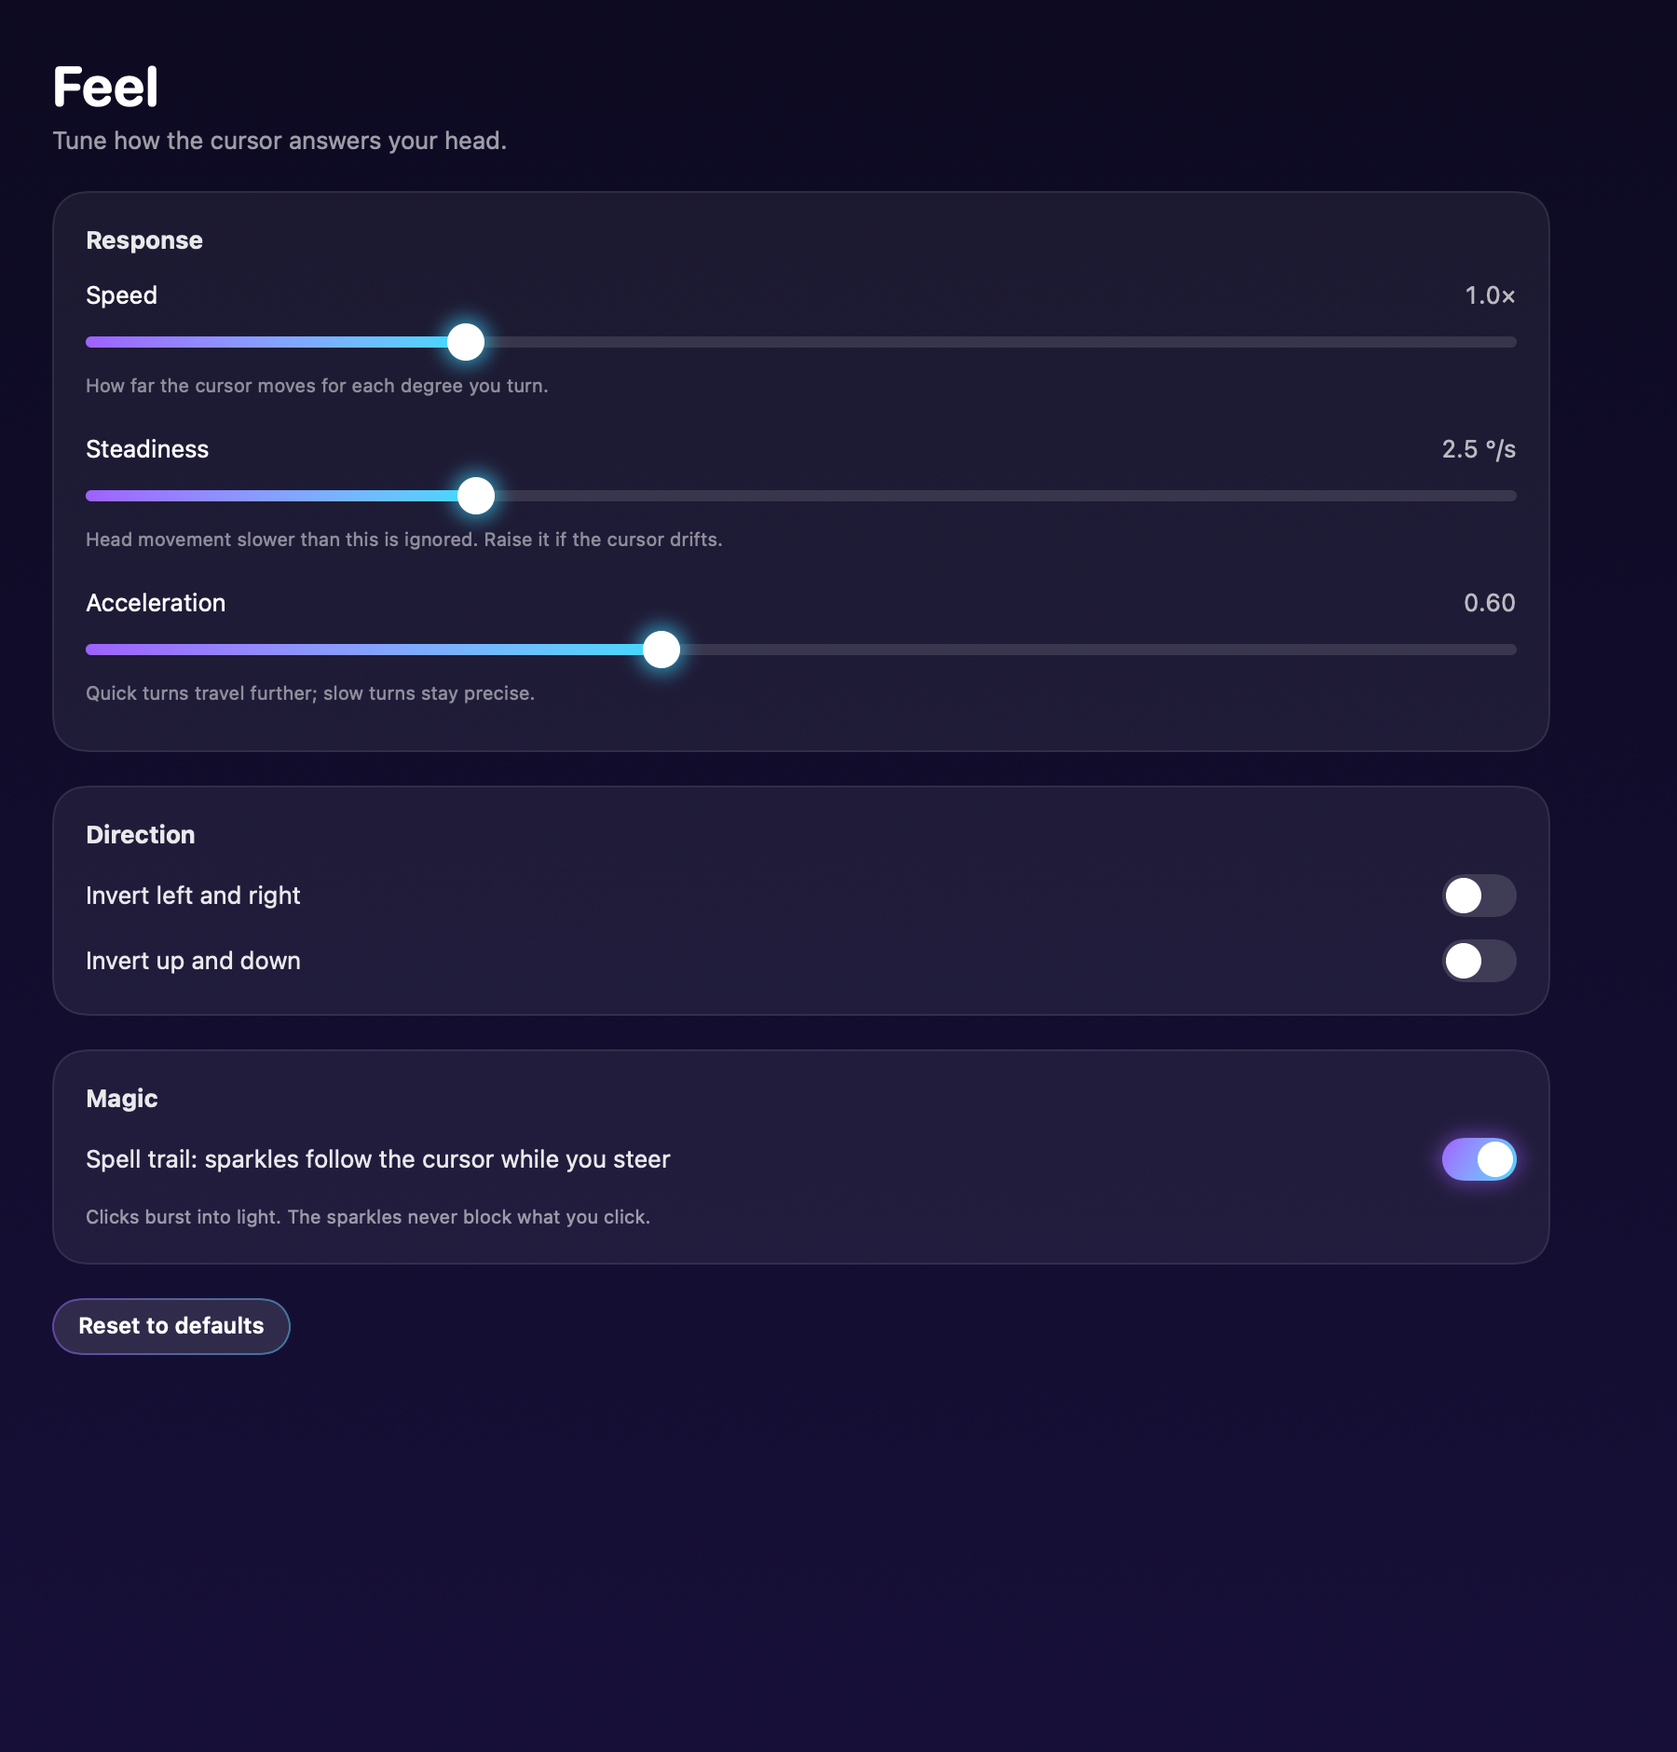
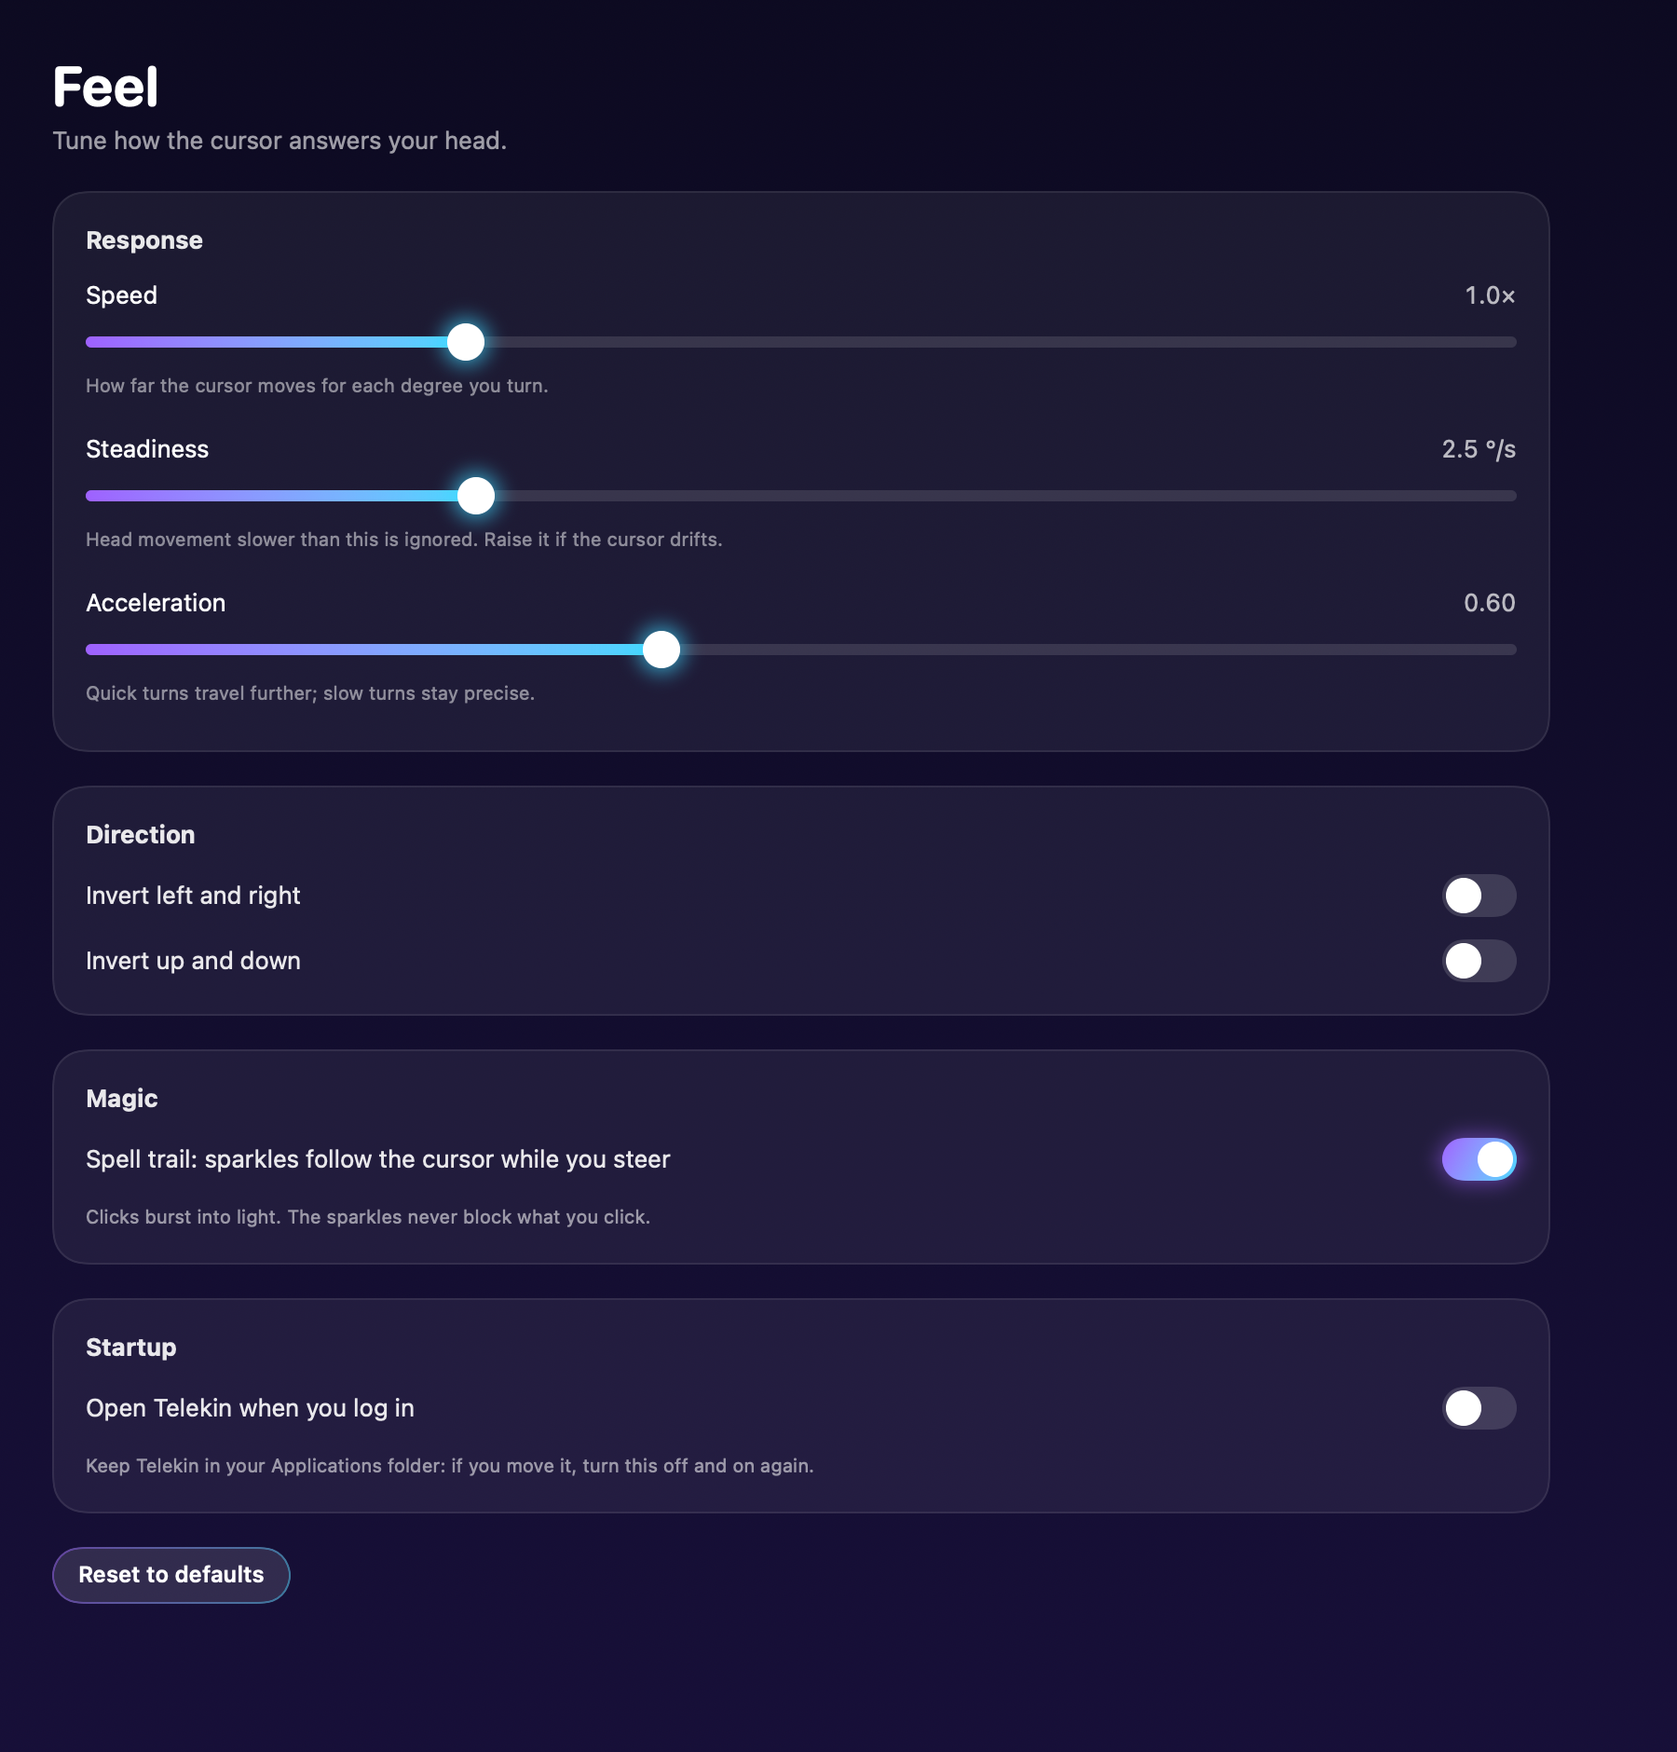
feat: open at login and VoiceOver labels
Open at login uses SMAppService.mainApp, from a Startup card on the Feel
page and a menu bar toggle. The system owns the setting; when macOS needs
approval, Telekin points to System Settings › Login Items.

Accessibility: custom toggles present as standard switches; sliders speak
their name, value and hint; the wand stage, head globe, tilt gauge, chart,
stats, status, shortcut chips and setup steps get spoken labels; purely
decorative images are hidden.

Changed region(s): [[0.0311, 0.7404, 0.4978, 0.9255], [0.84, 0.7713, 0.9022, 0.833]]

diff --git a/Sources/UI/FeelView.swift b/Sources/UI/FeelView.swift
@@ -26,6 +26,10 @@ struct FeelView: View {
                     .font(.caption).foregroundStyle(.white.opacity(0.55))
             }
 
+            Card("Startup") {
+                LoginItemToggle()
+            }
+
             Button("Reset to defaults") {
                 model.update { snapshot in
                     snapshot.settings = MouseSettings()
@@ -33,6 +37,38 @@ struct FeelView: View {
                 }
             }
         }
+    }
+}
+
+/// "Open at login". The system owns this setting, so the toggle re-reads it whenever it appears.
+private struct LoginItemToggle: View {
+    @State private var state = LoginItem.state
+    @State private var problem: String?
+
+    var body: some View {
+        Toggle("Open Telekin when you log in", isOn: Binding(
+            get: { state != .off },
+            set: { on in
+                problem = LoginItem.set(on)
+                state = LoginItem.state
+            }))
+        Group {
+            if let problem {
+                Text(problem).foregroundStyle(.orange)
+            } else if state == .needsApproval {
+                HStack {
+                    Text("macOS needs your OK in System Settings › General › Login Items.").foregroundStyle(.orange)
+                    Spacer()
+                    Button("Open Login Items") { LoginItem.openSystemSettings() }
+                }
+            } else {
+                Text("Keep Telekin in your Applications folder: if you move it, turn this off and on again.")
+                    .foregroundStyle(.white.opacity(0.55))
+            }
+        }
+        .font(.caption)
+        .fixedSize(horizontal: false, vertical: true)
+        .onAppear { state = LoginItem.state }
     }
 }
 
@@ -50,8 +86,12 @@ private struct SliderRow: View {
                 Spacer()
                 Text(String(format: format, value)).foregroundStyle(.white.opacity(0.7)).monospacedDigit()
             }
+            .accessibilityHidden(true) // The slider below speaks the title and value.
             SpellSlider(value: $value, range: range)
-            Text(hint).font(.caption).foregroundStyle(.white.opacity(0.5))
+                .accessibilityLabel(title)
+                .accessibilityValue(String(format: format, value))
+                .accessibilityHint(hint)
+            Text(hint).font(.caption).foregroundStyle(.white.opacity(0.5)).accessibilityHidden(true)
         }
         .padding(.bottom, 6)
     }

diff --git a/Sources/UI/ScrollPage.swift b/Sources/UI/ScrollPage.swift
@@ -11,6 +11,10 @@ struct ScrollPage: View {
                 TiltGauge(tilt: model.tilt, deadzone: model.snapshot.scroll.tiltDeadzoneDegrees,
                           active: model.snapshot.scroll.tiltScroll && model.status == .pointing && !model.scrollMode)
                     .frame(height: 200)
+                    .accessibilityElement()
+                    .accessibilityLabel("Tilt gauge")
+                    .accessibilityValue(TiltGauge.spokenValue(tilt: model.tilt, deadzone: model.snapshot.scroll.tiltDeadzoneDegrees,
+                                                              active: model.snapshot.scroll.tiltScroll && model.status == .pointing && !model.scrollMode))
                 HStack {
                     Text("Your current posture is neutral. Lean further to scroll faster.")
                         .font(.caption).foregroundStyle(.white.opacity(0.55))
@@ -56,8 +60,12 @@ private struct ScrollSliderRow: View {
                 Spacer()
                 Text(String(format: format, value)).foregroundStyle(.white.opacity(0.7)).monospacedDigit()
             }
+            .accessibilityHidden(true) // The slider below speaks the title and value.
             SpellSlider(value: $value, range: range)
-            Text(hint).font(.caption).foregroundStyle(.white.opacity(0.5))
+                .accessibilityLabel(title)
+                .accessibilityValue(String(format: format, value))
+                .accessibilityHint(hint)
+            Text(hint).font(.caption).foregroundStyle(.white.opacity(0.5)).accessibilityHidden(true)
         }
     }
 }
@@ -70,6 +78,12 @@ struct TiltGauge: View {
     let active: Bool
 
     private static let span = 45.0 // degrees shown on each side
+
+    static func spokenValue(tilt: Double, deadzone: Double, active: Bool) -> String {
+        let degrees = String(format: "%.0f degrees %@", abs(tilt), tilt >= 0 ? "right" : "left")
+        guard active, abs(tilt) > deadzone else { return "Tilted \(degrees), not scrolling" }
+        return "Tilted \(degrees), scrolling \(tilt > 0 ? "down" : "up")"
+    }
 
     var body: some View {
         Canvas { context, size in

diff --git a/Sources/UI/MotionView.swift b/Sources/UI/MotionView.swift
@@ -11,12 +11,16 @@ struct MotionView: View {
                 Card("Head orientation") {
                     HeadGlobe(sample: model.sample, zeroYaw: model.zeroYaw, zeroPitch: model.zeroPitch)
                         .frame(height: 240)
+                        .accessibilityElement()
+                        .accessibilityLabel("Head orientation globe")
+                        .accessibilityValue(model.sample == nil ? "No motion yet" : "Turns, nods and tilts with your head. Angles below.")
                     HStack {
                         Angle3(label: "Turn", value: model.sample.map { MouseMapper.wrappedDegrees($0.yaw - model.zeroYaw) }, color: Theme.turn)
                         Angle3(label: "Nod", value: model.sample.map { $0.pitch - model.zeroPitch }, color: Theme.nod)
                         Angle3(label: "Tilt", value: model.sample?.roll, color: Theme.tilt)
                         Spacer()
                         Button("Zero", action: model.zeroOrientation).help("Make the current position zero")
+                            .accessibilityHint("Makes your current head position zero")
                     }
                 }
                 Card("Signal") {
@@ -46,6 +50,7 @@ struct MotionView: View {
                     }
                 }
                 .frame(height: 220)
+                .accessibilityLabel("Rotation speed chart for turn, nod and tilt, last few seconds")
             }
         }
     }
@@ -63,6 +68,9 @@ private struct Angle3: View {
                 .font(.system(.title3, design: .rounded).weight(.semibold)).foregroundStyle(.white).monospacedDigit()
         }
         .frame(width: 64, alignment: .leading)
+        .accessibilityElement(children: .ignore)
+        .accessibilityLabel(label)
+        .accessibilityValue(value.map { String(format: "%+.0f degrees", $0) } ?? "no data")
     }
 }
 
@@ -76,6 +84,7 @@ private struct Row: View {
             Spacer()
             Text(value).foregroundStyle(.white).monospacedDigit()
         }
+        .accessibilityElement(children: .combine)
     }
 }
 

diff --git a/Sources/UI/HomeView.swift b/Sources/UI/HomeView.swift
@@ -62,6 +62,8 @@ private struct CastButton: View {
             .shadow(color: Theme.spellStart.opacity(casting ? 0 : 0.6), radius: 18)
         }
         .buttonStyle(.plain)
+        .accessibilityLabel(casting ? "Pause Telekin" : "Cast: start moving the cursor with your head")
+        .accessibilityHint(available ? "Shortcut: Control Option P" : "Finish Setup first")
         .disabled(!available)
         .opacity(available ? 1 : 0.4)
         .help(available ? "⌃⌥P" : "Finish Setup first")
@@ -83,6 +85,9 @@ private struct Stat: View {
             }
             Text(label).font(.caption).foregroundStyle(.white.opacity(0.6))
         }
+        .accessibilityElement(children: .ignore)
+        .accessibilityLabel(label)
+        .accessibilityValue("\(Int(value.rounded())) \(unit)")
     }
 }
 
@@ -104,8 +109,12 @@ struct WandStage: View {
                 drawBurst(in: &context, size: size)
             }
         }
+        .accessibilityElement()
+        .accessibilityLabel("Wand preview")
+        .accessibilityValue(model.sample == nil ? "Waiting for your head" : "The glowing tip follows your head")
         .overlay(alignment: .topTrailing) {
             Button("Center") { model.zeroOrientation() }
+                .accessibilityLabel("Center the wand")
                 .padding(14)
                 .help("Make the current head position the center")
         }

diff --git a/Sources/Runtime/LoginItem.swift b/Sources/Runtime/LoginItem.swift
@@ -1,0 +1,40 @@
+import ServiceManagement
+
+/// "Open at login", through the system's Login Items list (System Settings › General › Login Items).
+/// The system stores the choice, so it never goes into Telekin's own settings.
+enum LoginItem {
+    enum State: Equatable {
+        case on
+        case off
+        /// Registered, but the user has to allow it in System Settings first.
+        case needsApproval
+    }
+
+    static var state: State {
+        switch SMAppService.mainApp.status {
+        case .enabled: return .on
+        case .requiresApproval: return .needsApproval
+        default: return .off
+        }
+    }
+
+    /// Turns opening at login on or off. Returns a message to show when the system refuses.
+    @discardableResult
+    static func set(_ on: Bool) -> String? {
+        let service = SMAppService.mainApp
+        do {
+            if on {
+                if service.status != .enabled { try service.register() }
+            } else if service.status == .enabled || service.status == .requiresApproval {
+                try service.unregister()
+            }
+            return nil
+        } catch {
+            return "Couldn't change Open at login: \(error.localizedDescription)"
+        }
+    }
+
+    static func openSystemSettings() {
+        SMAppService.openSystemSettingsLoginItems()
+    }
+}

diff --git a/Sources/UI/Theme.swift b/Sources/UI/Theme.swift
@@ -109,6 +109,14 @@ struct KeyChip: View {
                 .background(RoundedRectangle(cornerRadius: 6).fill(.white.opacity(0.12)))
             Text(label).foregroundStyle(.white.opacity(0.75))
         }
+        .accessibilityElement(children: .ignore)
+        .accessibilityLabel("\(label): \(Self.spoken(keys))")
+    }
+
+    /// "⌃⌥P" read aloud as "Control Option P".
+    static func spoken(_ keys: String) -> String {
+        let names: [Character: String] = ["⌃": "Control", "⌥": "Option", "⇧": "Shift", "⌘": "Command"]
+        return keys.map { names[$0] ?? String($0) }.joined(separator: " ")
     }
 }
 
@@ -124,6 +132,8 @@ struct StatusPill: View {
         }
         .padding(.horizontal, 12).padding(.vertical, 6)
         .background(Capsule().fill(.white.opacity(0.08)))
+        .accessibilityElement(children: .ignore)
+        .accessibilityLabel("Status: \(Theme.statusTitle(status))")
     }
 }
 
@@ -161,7 +171,8 @@ struct SpellToggleStyle: ToggleStyle {
             .contentShape(Rectangle())
         }
         .buttonStyle(.plain)
-        .accessibilityAddTraits(configuration.isOn ? [.isSelected] : [])
+        // VoiceOver and Voice Control see a standard switch, not a plain button.
+        .accessibilityRepresentation { Toggle(isOn: configuration.$isOn) { configuration.label } }
     }
 }
 

diff --git a/Sources/App/MenuBar.swift b/Sources/App/MenuBar.swift
@@ -56,6 +56,7 @@ final class MenuBar: NSObject, NSMenuDelegate {
         menu.addItem(toggle("Tilt to scroll", controller.scroll.tiltScroll, #selector(toggleTiltScroll)))
         menu.addItem(toggle("Spell trail", controller.effects.spellTrail, #selector(toggleTrail)))
         menu.addItem(.separator())
+        menu.addItem(toggle("Open at login", LoginItem.state != .off, #selector(toggleLoginItem)))
         menu.addItem(NSMenuItem(title: "Quit Telekin", action: #selector(NSApplication.terminate(_:)), keyEquivalent: "q"))
     }
 
@@ -78,4 +79,13 @@ final class MenuBar: NSObject, NSMenuDelegate {
     @objc private func toggleScrollMode() { controller.toggleScrollMode() }
     @objc private func toggleTiltScroll() { controller.update { $0.scroll.tiltScroll.toggle() } }
     @objc private func toggleTrail() { controller.update { $0.effects.spellTrail.toggle() } }
+    @objc private func toggleLoginItem() {
+        if let problem = LoginItem.set(LoginItem.state == .off) {
+            let alert = NSAlert()
+            alert.messageText = problem
+            alert.runModal()
+        } else if LoginItem.state == .needsApproval {
+            LoginItem.openSystemSettings()
+        }
+    }
 }

diff --git a/Sources/UI/SetupView.swift b/Sources/UI/SetupView.swift
@@ -24,6 +24,7 @@ struct SetupView: View {
             Card {
                 HStack(spacing: 12) {
                     Image(systemName: model.isReady ? "wand.and.stars" : "hourglass")
+                        .accessibilityHidden(true)
                         .font(.title).foregroundStyle(model.isReady ? AnyShapeStyle(Theme.spell) : AnyShapeStyle(Color.white.opacity(0.5)))
                     VStack(alignment: .leading) {
                         Text(model.isReady ? "You're ready. Turn your head!" : "Finish the steps above")
@@ -58,6 +59,8 @@ private struct Step: View {
                     if done { Image(systemName: "checkmark").font(.headline).foregroundStyle(.white) }
                     else { Text("\(number)").font(.headline).foregroundStyle(.white) }
                 }
+                .accessibilityElement(children: .ignore)
+                .accessibilityLabel("Step \(number), \(done ? "done" : "to do")")
                 VStack(alignment: .leading, spacing: 6) {
                     Text(title).font(.headline).foregroundStyle(.white)
                     Text(detail).foregroundStyle(.white.opacity(0.65)).fixedSize(horizontal: false, vertical: true)

diff --git a/Sources/UI/MainWindow.swift b/Sources/UI/MainWindow.swift
@@ -30,7 +30,7 @@ struct MainView: View {
             .navigationSplitViewColumnWidth(190)
             .safeAreaInset(edge: .bottom) {
                 HStack(spacing: 6) {
-                    Circle().fill(Theme.statusColor(model.status)).frame(width: 8, height: 8)
+                    Circle().fill(Theme.statusColor(model.status)).frame(width: 8, height: 8).accessibilityHidden(true)
                     Text(model.status == .pointing ? String(format: "%.0f Hz · casting", model.rateHz) : Theme.statusTitle(model.status))
                         .font(.caption).foregroundStyle(.secondary)
                 }

diff --git a/Sources/UI/AboutView.swift b/Sources/UI/AboutView.swift
@@ -13,7 +13,7 @@ struct AboutView: View {
             Card {
                 HStack(spacing: 16) {
                     if let icon = NSApp.applicationIconImage {
-                        Image(nsImage: icon).resizable().frame(width: 72, height: 72)
+                        Image(nsImage: icon).resizable().frame(width: 72, height: 72).accessibilityHidden(true)
                     }
                     VStack(alignment: .leading, spacing: 4) {
                         Text("Telekin").font(.system(size: 24, weight: .bold, design: .rounded)).foregroundStyle(.white)

diff --git a/Sources/UI/ClicksView.swift b/Sources/UI/ClicksView.swift
@@ -61,6 +61,8 @@ private struct PracticeTarget: View {
                         .overlay(Image(systemName: "sparkles").foregroundStyle(.white))
                 }
                 .buttonStyle(.plain)
+                .accessibilityLabel("Practice orb")
+                .accessibilityHint("Click it and it jumps somewhere else")
                 .position(x: position.x * geometry.size.width, y: position.y * geometry.size.height)
             }
         }

diff --git a/README.md b/README.md
@@ -27,6 +27,8 @@
 - **AirPods press (experimental).** Press the stem once to click and twice to double-click.
 - **Spell trail.** Sparkles follow the cursor while you steer, and every click bursts into light. The sparkles never block what you click.
 - **See what your AirPods feel.** A live 3D head globe and rotation-speed chart.
+- **Open at login.** Turn it on in Feel or the menu bar, and Telekin is ready whenever your AirPods are.
+- **Spoken labels.** Controls, gauges and charts in the window have names for VoiceOver and Voice Control.
 
 <p align="center">
   <img src="docs/screenshots/motion.png" width="49%" alt="Motion page: 3D head globe and live rotation chart">
